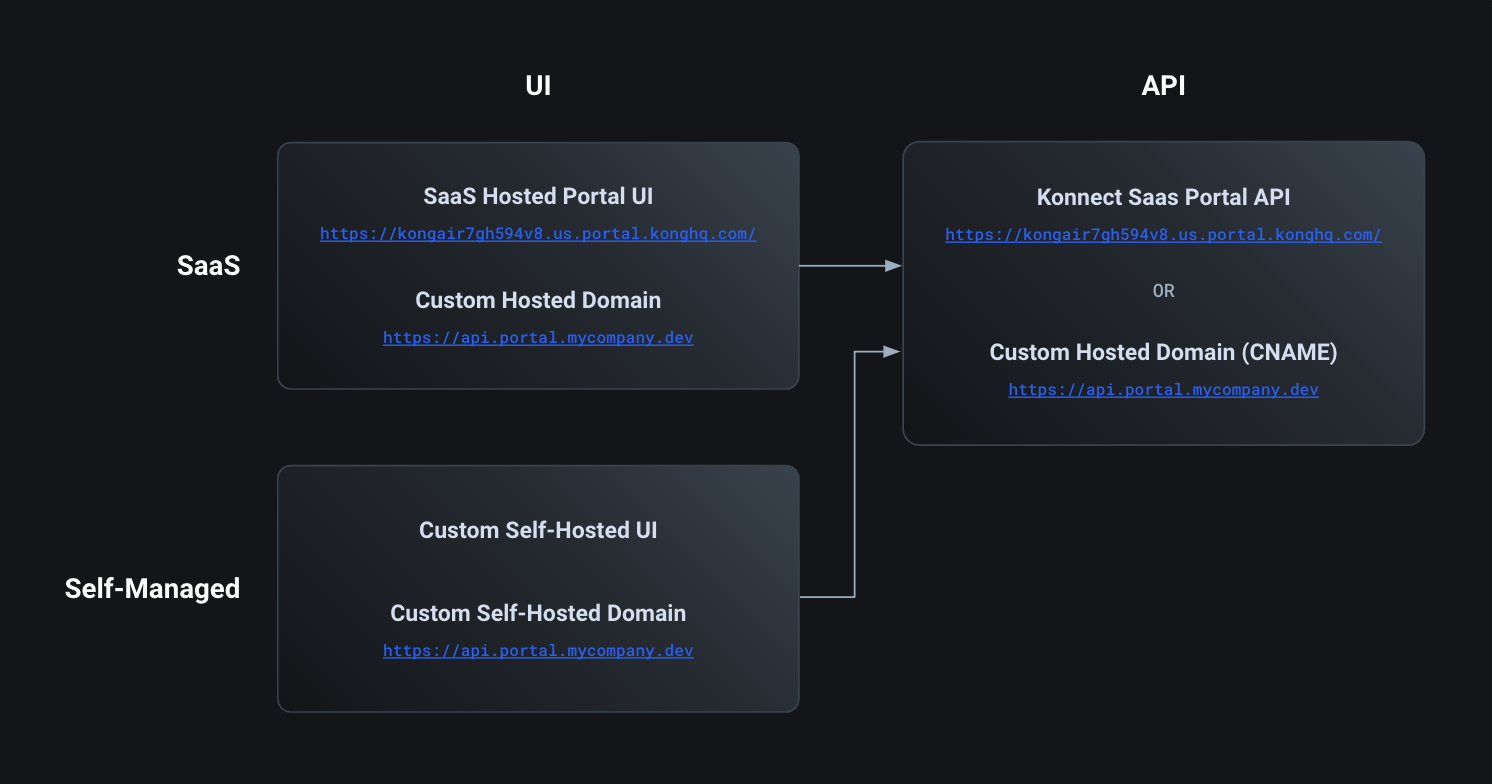
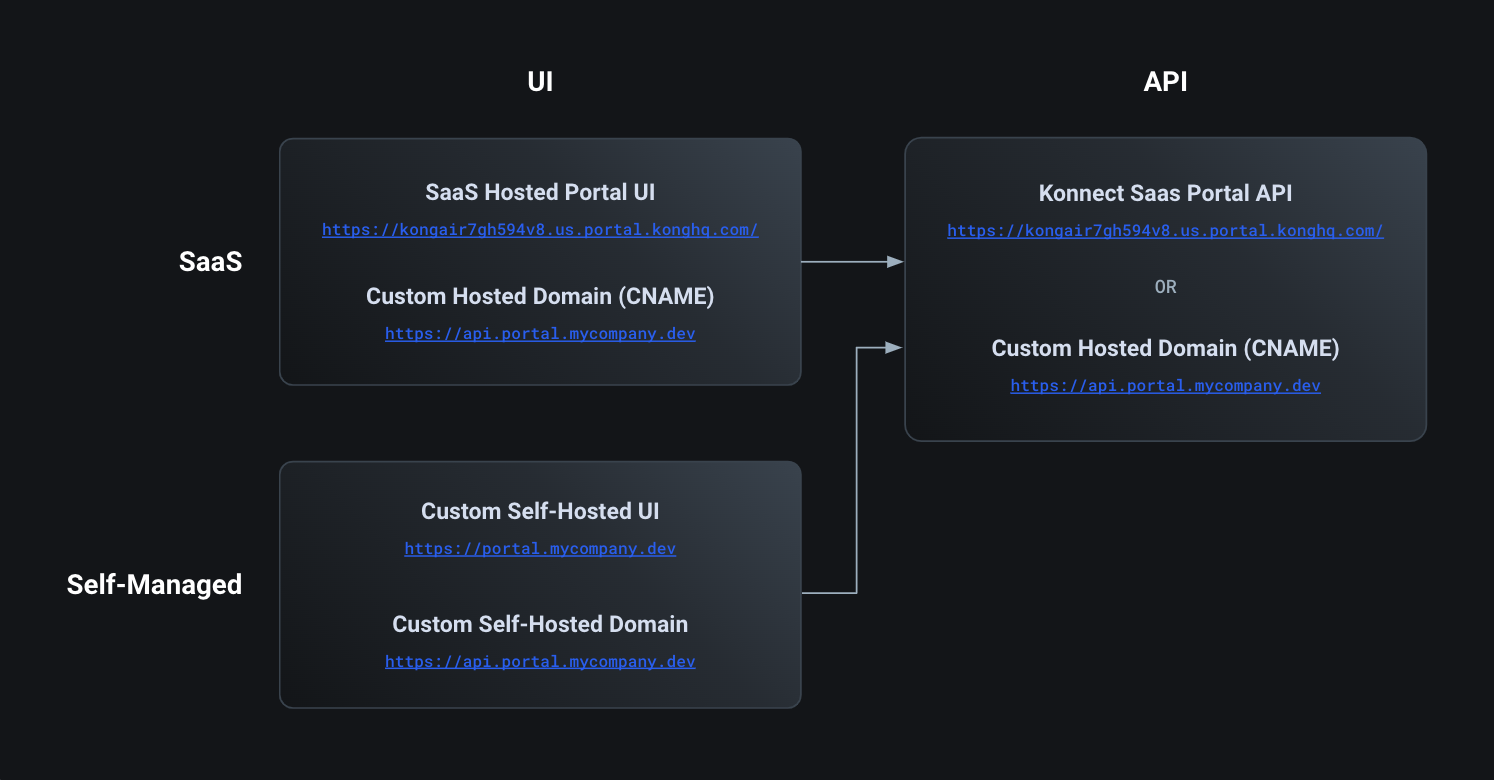
Fix one image and some wording

diff --git a/app/konnect/dev-portal/customization/index.md b/app/konnect/dev-portal/customization/index.md
@@ -6,6 +6,12 @@ content_type: how-to
 
 ## Appearance
 
+To customize Dev Portal, you have two options:
+* Basic customization using the Dev Portal [Appearance settings](#appearance) in the UI
+* Complete customization using the [open source Dev Portal client](/konnect/dev-portal/customization/self-hosted-portal/)
+
+### Basic customization
+
 The Dev Portal can be customized by those with admin roles via the **Appearance
 settings** in the {{site.konnect_short_name}} admin UI. To access the appearance
 settings, click {% konnect_icon dev-portal %} **Dev Portal**, then **Appearance**.
@@ -19,6 +25,16 @@ From the **Appearance** menu you have the ability to modify the following option
 * Fonts
 
 For details on the requirements for each customizable option, hover over the information (`i`) icon next to each item in the UI.
+
+### Complete customization using the open source Dev Portal
+
+You can completely customize the Dev Portal using the [open source Dev Portal client](/konnect/dev-portal/customization/self-hosted-portal/). To enable the self-hosted Dev Portal, navigate to {% konnect_icon dev-portal %} **Dev Portal** > [**Settings**](https://cloud.konghq.com/portal/portal-settings), then set up a custom domain in the **Portal Domain** tab.
+
+This self-hosted portal provides the following benefits: 
+
+* **Fully customizable:** Use the [example frontend Dev Portal application](https://github.com/Kong/konnect-portal) as a starting point and then customize Dev Portal for your needs using the [Portal API](https://developer.konghq.com/spec/2aad2bcb-8d82-43b3-abdd-1d5e6e84dbd6/b4539157-4ced-4df5-affa-7d790baee356). You can also integrate the API specs with workflows tailored to your organization's own processes.
+* **Hosting service choice:** When you self-host, you also get to choose which hosting service you use to deploy your Dev Portal. 
+* **Range of customization options:** With the self-hosted Dev Portal, you determine how much you want to customize. You can choose to use the example application right out of the box, or you can use the [Portal API](https://developer.konghq.com/spec/2aad2bcb-8d82-43b3-abdd-1d5e6e84dbd6/b4539157-4ced-4df5-affa-7d790baee356) and [Portal SDK](https://www.npmjs.com/package/@kong/sdk-portal-js) for more fine-grained control.
 
 ## Custom Dev Portal URL
 

diff --git a/app/konnect/dev-portal/customization/netlify.md b/app/konnect/dev-portal/customization/netlify.md
@@ -26,7 +26,7 @@ The example application is pre-configured with the following:
 1. Enter a name for your custom portal client domain in the **Custom Self-Hosted UI Domain** field. For example, `client.mycompany.com`.
 1. Add a CNAME record to your domain's DNS records that points the custom API domain to the default portal domain. For example:
     ```sh
-    api.mycompany.com   CNAME   3600    client.mycompany.com
+    api.mycompany.com   CNAME   3600    portal29asdfj278.us.portal.konghq.com
     ```
 
 Now the self-hosted Dev Portal is enabled and the {{site.konnect_short_name}}-hosted Dev Portal is disabled. The custom portal domain API you specified will be used as the API domain of your portal and the custom portal client domain will be used to access the UI of your self-hosted portal.
